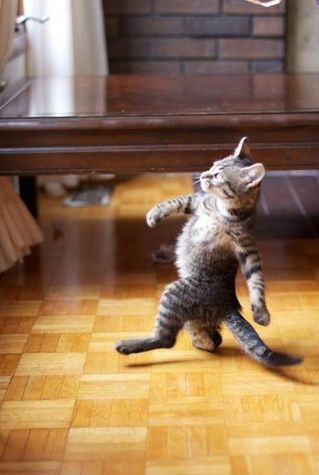
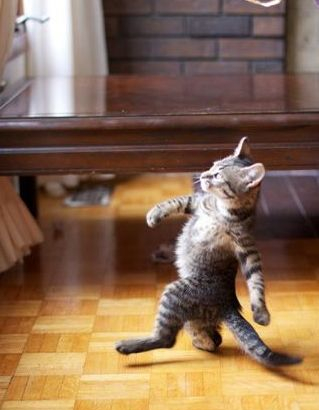
Fixing challenges intro and challenge 3

diff --git a/webgoat-lessons/challenge/src/main/java/org/owasp/webgoat/plugin/challenge3/Assignment3.java b/webgoat-lessons/challenge/src/main/java/org/owasp/webgoat/plugin/challenge3/Assignment3.java
@@ -2,22 +2,33 @@ package org.owasp.webgoat.plugin.challenge3;
 
 import com.fasterxml.jackson.databind.ObjectMapper;
 import com.google.common.collect.EvictingQueue;
+import com.google.common.io.Files;
+import lombok.SneakyThrows;
 import org.joda.time.DateTime;
+import org.joda.time.format.DateTimeFormat;
+import org.joda.time.format.DateTimeFormatter;
 import org.owasp.webgoat.assignments.AssignmentEndpoint;
 import org.owasp.webgoat.assignments.AssignmentPath;
 import org.owasp.webgoat.assignments.AttackResult;
 import org.owasp.webgoat.plugin.Flag;
 import org.owasp.webgoat.session.WebSession;
 import org.springframework.beans.factory.annotation.Autowired;
+import org.springframework.beans.factory.annotation.Value;
 import org.springframework.http.MediaType;
-import org.springframework.web.bind.annotation.*;
+import org.springframework.web.bind.annotation.RequestBody;
+import org.springframework.web.bind.annotation.RequestHeader;
+import org.springframework.web.bind.annotation.RequestMapping;
+import org.springframework.web.bind.annotation.ResponseBody;
 
+import javax.annotation.PostConstruct;
 import javax.xml.bind.JAXBContext;
 import javax.xml.bind.Unmarshaller;
 import javax.xml.stream.XMLInputFactory;
 import javax.xml.stream.XMLStreamReader;
+import java.io.File;
 import java.io.IOException;
 import java.io.StringReader;
+import java.nio.charset.Charset;
 import java.util.Collection;
 
 import static org.springframework.http.MediaType.ALL_VALUE;
@@ -32,15 +43,31 @@ import static org.springframework.web.bind.annotation.RequestMethod.POST;
 @AssignmentPath("/challenge/3")
 public class Assignment3 extends AssignmentEndpoint {
 
+    @Value("${webgoat.server.directory}")
+    private String webGoatHomeDirectory;
     @Autowired
     private WebSession webSession;
+    private static DateTimeFormatter fmt = DateTimeFormat.forPattern("yyyy-MM-dd, HH:mm:ss");
+
     private static final EvictingQueue<Comment> comments = EvictingQueue.create(100);
+    private static final String secretContents = "Congratulations you may now collect your flag";
 
     static {
-        comments.add(new Comment("webgoat", DateTime.now().toString(), "Silly cat...."));
-        comments.add(new Comment("guest", DateTime.now().toString(), "I think I will use this picture in one of my projects."));
+        comments.add(new Comment("webgoat", DateTime.now().toString(fmt), "Silly cat...."));
+        comments.add(new Comment("guest", DateTime.now().toString(fmt), "I think I will use this picture in one of my projects."));
         comments.add(new Comment("guest", DateTime.now().toString(), "Lol!! :-)."));
     }
+
+    @PostConstruct
+    @SneakyThrows
+    public void copyFile() {
+        File targetDirectory = new File(webGoatHomeDirectory, "/challenges");
+        if (!targetDirectory.exists()) {
+            targetDirectory.mkdir();
+        }
+        Files.write(secretContents, new File(targetDirectory, "secret.txt"), Charset.defaultCharset());
+    }
+
 
     @RequestMapping(method = GET, produces = APPLICATION_JSON_VALUE)
     @ResponseBody
@@ -60,7 +87,7 @@ public class Assignment3 extends AssignmentEndpoint {
         }
         if (MediaType.APPLICATION_XML_VALUE.equals(contentType)) {
             comment = parseXml(commentStr);
-            comment.setDateTime(DateTime.now().toString());
+            comment.setDateTime(DateTime.now().toString(fmt));
             comment.setUser(webSession.getUserName());
         }
         if (comment != null) {
@@ -74,7 +101,7 @@ public class Assignment3 extends AssignmentEndpoint {
     }
 
     private boolean checkSolution(Comment comment) {
-        if (comment.getComment().contains("Congratulations you may now collect your flag")) {
+        if (comment.getComment().contains(secretContents)) {
             comment.setComment("Congratulations to " + webSession.getUserName() + " for finding the flag!!");
             return true;
         }
